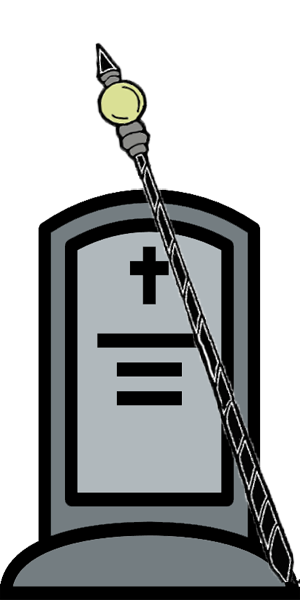
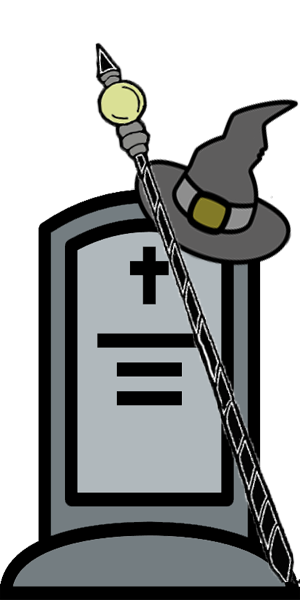
agregado cambio de imagen en versus al cambiar el turno,cambio de imagen tumba  sacerdotisa, mensaje de victoria y derrota - funcional

Changed region(s): [[0.45, 0.15, 0.99, 0.45]]

diff --git a/public/js/juego.js b/public/js/juego.js
@@ -1,5 +1,6 @@
 var socket = io.connect("http://127.0.0.1:3700")
 var Partida
+    // var PartidaEnCurso = false
 cargaNombrePartida()
 
 function cargaNombrePartida() {
@@ -16,7 +17,9 @@ function cargaNombrePartida() {
     socket.on("partidacargar" + $(".close").html().trim(), function(data) {
             //carga el nombre de los usuarios en la partida
             Partida = data
-                // console.log(Partida)
+                // PartidaEnCurso = true
+
+            // console.log(Partida)
             recargarEstadisticas(Partida)
             cargarBatalla()
         })
@@ -25,6 +28,7 @@ function cargaNombrePartida() {
 
 
     socket.on("ganador" + $(".close").html().trim(), function(data) {
+        // PartidaEnCurso = false
         ajax("./Controlador/CancelarBusqueda.php", false, "cancelarbusqueda")
         contenido =
             "<div class='finPartida'>" +
@@ -43,9 +47,11 @@ function cargaNombrePartida() {
         $(".versus").fadeOut(500)
         $("footer").before(contenido)
 
-        alert("Ganaste")
+
+        // alert("Ganaste")
     })
     socket.on("perdedor" + $(".close").html().trim(), function(data) {
+        PartidaEnCurso = false
         ajax("./Controlador/CancelarBusqueda.php", false, "cancelarbusqueda")
         contenido =
             "<div class='finPartida'>" +
@@ -62,7 +68,7 @@ function cargaNombrePartida() {
         $(".versus").fadeOut(500)
         $("footer").before(contenido)
 
-        alert("perdiste prro")
+        // alert("perdiste prro")
     })
 }
 
@@ -231,8 +237,20 @@ function cargarBatalla() {
                 "display": "inline-block",
             })
 
-
-
+        } else {
+            $(".versus").css({
+                "background": "url(./img/vsTurnoContrincante.png) no-repeat 0 0",
+                "background-size": "400px 50px",
+                "background-position": "center",
+                "background-position-y": "5px",
+                "margin": "auto",
+                "color": "aliceblue",
+                "position": "absolute",
+                "width": "100% ",
+                "height": "60px",
+                "margin - top": "15px",
+                "display": "inline-block",
+            })
 
         }
 
@@ -285,7 +303,7 @@ function pasarTurno() {
     cargarBatalla()
 
     socket.emit("pasarturno", { "receptor": Partida["Contrincante"]["Nombre"] })
-    alert("pasa turno")
+        // alert("pasa turno")
 
 }
 
@@ -312,7 +330,7 @@ function dispararFinPartida() {
                 socket.emit("asignarganador", Partida["Contrincante"]["Nombre"])
                 socket.emit("asignarperdedor", Partida["Jugador"]["Nombre"])
             } else {
-                alert("llego el turno")
+                // alert("llego el turno")
 
                 Partida["Turno"] = "jugador"
 

diff --git a/public/js/mostrarnombre.js b/public/js/mostrarnombre.js
@@ -48,7 +48,7 @@ function cerrarsesion() {
     if (Partida) {
         ajax("./Controlador/BorrarPersonajes.php", { datos: Partida["Jugador"]["ID"] }, "borrarpersonajes")
         ajax("./Controlador/AsignarGanador.php", { datos: { "ganador": Partida["Contrincante"]["ID"], "partida": Partida["ID"] } }, "asignarganador")
-        alert("vas a borrar todo")
+            // alert("vas a borrar todo")
     }
 
 

diff --git a/public/Controlador/AsignarGanador.php b/public/Controlador/AsignarGanador.php
@@ -3,7 +3,7 @@ require_once("../Modelo/class.consultas.php");
 session_start();
 $consultas= new Consultas();
 $datos=$_POST["datos"];
-$sql="update partida set ganadorid=? where partidaid=?";
+$sql="update partida set ganadorid=? where partidaid=? and ganadorid is null";
 $consultas->query($sql,array($datos["ganador"],$datos["partida"]));
 echo json_encode($_SESSION["Partida"]["Contrincante"]["Nombre"], JSON_UNESCAPED_UNICODE);
 
